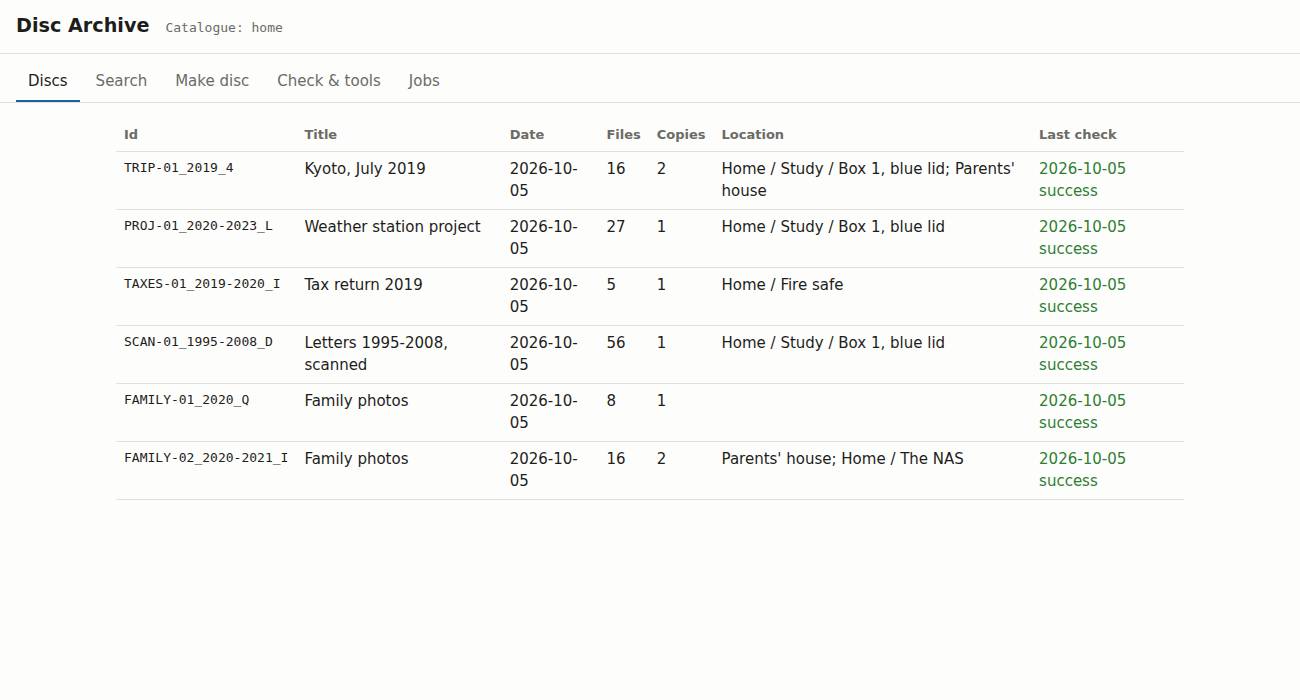
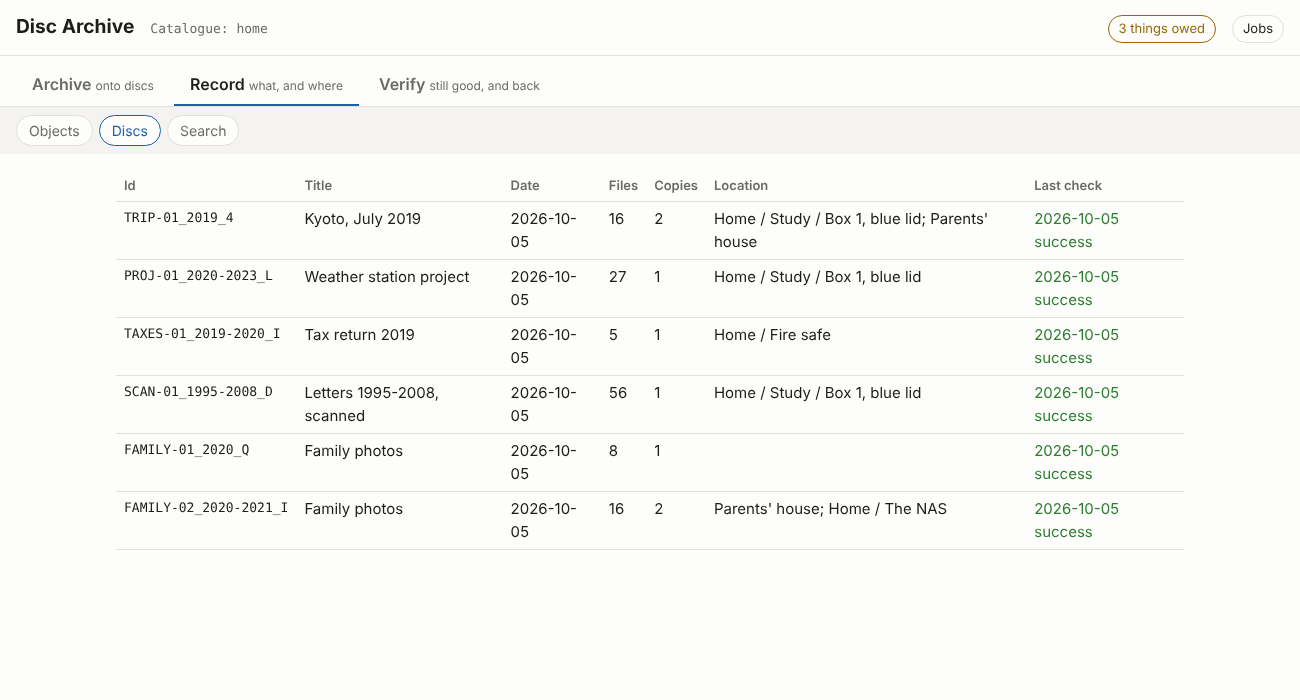
Docs follow Archive, Record, Verify; the GUI screenshot retaken
- workflow.md is now in three parts: Archive (1 collections, 2 status, 3 editions and
  disc plans), Record (4 copies, 5 the shelf, 6 finding things and the whole picture:
  arv objects, retiring) and Verify (7 what is owed and checking, 8 recover). The old
  "living with the archive" section is split between Record and Verify, and the
  diagram's groups carry the same names. shelving.md's link to Recover is fixed (it
  pointed at a section number that had moved).
- philosophy.md: "Archive, Record, Verify: the name is the work", tying each to the
  principles: curation and discs that stand alone; a record that describes and travels;
  verifying, without which it is a hope, not an archive.
- README: what arv does, in the three words; the commands example grouped under them
  (with arv todo, verify, restore and objects added); the GUI paragraph names the three
  tabs. docs/index.html says the same in a paragraph.
- docs/screenshots/gui.png retaken with dev-tools/screenshots.sh: Record > Discs under
  the three tabs. The GUI opens the view named in its address (#discs, #master, ...),
  which the script uses; the script now skips disc.png when the sample images are not
  downloaded, instead of stopping.

Claude-Session: https://claude.ai/code/session_01KgGJjcZuCsCesaZgm3Ve5T

diff --git a/docs/index.html b/docs/index.html
@@ -71,6 +71,11 @@ holds what is worth keeping, chosen, and must outlive the software and the perso
 It is kept <strong>cold</strong> where possible: on offline, write-once media on a shelf, where no
 mistake, failure or ransomware on a connected computer can reach it. Keep your backups; arv is for
 the archive on top of them.</p>
+<p><strong>Its name is what it does.</strong> <em>Archive</em>: choose what goes on discs, from a
+folder you keep sorting or composed by hand from anywhere. <em>Record</em>: what exists and where:
+every copy, its place and temperature, and what is on which disc. <em>Verify</em>: that every copy
+still reads, what is owed, and getting things back. The commands and the interface are grouped the
+same way.</p>
 <ul>
   <li><strong>It keeps the archive's record, not just discs.</strong> A folder you keep sorting
   becomes a collection with a history, like git's for any files; each set of discs from it is an
@@ -111,7 +116,7 @@ them, or take one from the <a href="https://github.com/mofosyne/arv/releases/tag
 release</a>): open one with your file manager or 7-Zip and read its <code>README.txt</code>.</p>
 
 <figure>
-  <a href="screenshots/gui.png"><img src="screenshots/gui.png" alt="arv gui listing the six sample discs, with where each is kept and when it was last checked"></a>
+  <a href="screenshots/gui.png"><img src="screenshots/gui.png" alt="arv gui, Record › Discs: the six sample discs, with where each is kept and when it was last checked, under the Archive, Record and Verify tabs"></a>
   <figcaption><code>arv gui</code> on the sample catalogue.</figcaption>
 </figure>
 <figure>

diff --git a/src/arv-gui/arvgui/gui.html b/src/arv-gui/arvgui/gui.html
@@ -919,7 +919,10 @@ pre.log { background:var(--panel); padding:10px 12px; border-radius:6px; max-hei
   }
 
   api("/api/llm/status").then(function (st) { llmStatus = st; }).catch(function () { llmStatus = null; })
-    .then(function () { setupMakeLLM(); loadDiscs(); showTab("owed"); });
+    .then(function () {           // a view named in the address (#discs, #master...), else Verify's Owed
+      var want = location.hash.slice(1);
+      setupMakeLLM(); loadDiscs(); loadOwed(); showTab(GROUP[want] ? want : "owed");
+    });
 })();
 </script>
 </body></html>

diff --git a/docs/workflow.md b/docs/workflow.md
@@ -10,6 +10,10 @@ keep, in *editions* — sets of discs, each holding a selection of the collectio
 the catalogue — kept **cold** (offline, on a shelf) wherever possible, and recorded well enough
 to outlive the software and the person who made it ([philosophy.md](philosophy.md)).
 
+The steps fall in three parts, as the name says: **Archive** (what goes on discs: 1-3),
+**Record** (what exists, and where: 4-6) and **Verify** (still good, and can be got back: 7-8).
+`arv --help` and the GUI's three tabs are arranged the same way.
+
 Details live elsewhere and are linked: the model behind the commands in
 [concepts.md](concepts.md), the command reference in [README.md](../README.md), the on-disc format
 in [smart-archive-format.md](spec/smart-archive-format.md), burning in [burning.md](burning.md),
@@ -20,23 +24,23 @@ shelving in [shelving.md](shelving.md), and the reasons for each choice in
 
 ```mermaid
 flowchart TD
-    subgraph keep [What you keep]
+    subgraph keep [Archive: what you keep]
         W[a workflow folder<br/>arv collection init] --> S[sort, add, rename<br/>arv status, arv checkpoint]
     end
-    subgraph make [An edition]
+    subgraph make [Archive: an edition]
         S --> M[arv make<br/>disc images: a selection of the<br/>collection + the catalogue, bag, tools, RS03]
     end
-    subgraph copies [Its copies]
+    subgraph copies [Record: its copies]
         M --> B[burn it yourself, then<br/>arv burned --device: read back, recorded; cold]
         M --> N[copy it to the NAS, then<br/>arv stored: checked, recorded; warm]
     end
-    subgraph live [Living with it]
+    subgraph live [Verify: living with it]
         B --> T[arv todo<br/>copies owed, checks due, editions to retire]
         N --> T
         T --> R[arv retire<br/>older editions a safe one replaces]
         T --> C[arv check --device<br/>every few years]
     end
-    subgraph recover [Recover]
+    subgraph recover [Verify: recover]
         C -- damage --> D[ddrescue, then<br/>arv check --image --repair]
         B -- home catalogue lost --> RB[arv rebuild /media/disc]
         B -- tools lost --> P[plain tools:<br/>sha256sum, a browser, a text editor]
@@ -108,7 +112,13 @@ arv location add PARENTS "Parents' house" --temperature cold
 arv location add NAS "The NAS" --temperature warm
 ```
 
-## 1. A collection and its workflow folder
+## Archive: what goes on discs
+
+Choosing what to keep, shaping it, and making disc images of it: a collection's editions from its
+workflow folder (1-3), or discs composed by hand from anywhere (disc plans, in 3). Nothing here
+counts as archived yet: that takes copies, recorded (Record), and read back (Verify).
+
+### 1. A collection and its workflow folder
 
 A **collection** is something you keep over time: the family photos, a project, the tax
 records. Its **workflow folder** is where you sort it. arv writes one small `.arv` marker
@@ -129,7 +139,7 @@ Optional: `arv tag FOLDER --save d.json` suggests folder tags from your vocabula
 describe FOLDER --save d.json` asks a local language model for a title, description and
 questions; `arv make --draft d.json` takes either.
 
-## 2. Sort, and see what changed
+### 2. Sort, and see what changed
 
 Work in the folder as you like. arv tells you what changed since the last edition, and keeps a
 history if you want one between editions:
@@ -160,7 +170,7 @@ repository is its working files plus a compacted `.git` (one pack; no hooks, no 
 stash's, no credentials in remote URLs), so the restored folder is a working repository; `arv
 make --git-since DATE` keeps only the history since then (shallow, as git itself does it).
 
-## 3. Make an edition
+### 3. Make an edition
 
 ```sh
 arv make ~/family [--message "the 2025 sort"] [--keep] [--medium bd25|bd100] [--split]
@@ -182,7 +192,7 @@ arv always made. The choices that matter then:
 | `--snapshot` | `full`: every disc carries the whole catalogue | `set` for a disc given to someone else |
 | `--split` | off: stop if it does not fit | the folder needs several discs |
 
-### Discs composed by hand: disc plans
+#### Discs composed by hand: disc plans
 
 When what goes on a disc is not one folder (a large film on one disc, the year's photos from the
 NAS and some scans on another), compose the discs by hand, as Nero's compilation window did. A
@@ -238,7 +248,7 @@ A plan's discs are one-off discs of its set, not an edition of a collection. The
 `drafts/plans/NAME.rec` in the home (a Plan record, then an Item record per thing: `Disc`,
 `Source`, `Path`); it never goes on a disc. Not yet: `--formats` (Siegfried) for a plan.
 
-### What `arv make` does, step by step
+#### What `arv make` does, step by step
 
 1. **Scan and hash** every file (SHA-256 and SHA-512); stop on names the image cannot hold.
 2. **Classify**: one `Set` and any `Category` codes from `sets.rec`, every vocabulary path
@@ -258,7 +268,13 @@ A plan's discs are one-off discs of its set, not an edition of a collection. The
 
 Output: one `.iso` per disc, and the commands to burn and record it.
 
-## 4. Copies: burned, and stored
+## Record: what exists, and where
+
+What arv writes down: every copy and where it is kept, notes and changes after burning, what is
+on which disc, and what each thing is. The catalogue is the map of the archive; every new disc
+carries a copy of it.
+
+### 4. Copies: burned, and stored
 
 arv never burns and never copies files to a NAS: those are jobs for tools built for them. It
 checks each copy against the image and records it, with its place and temperature.
@@ -282,7 +298,7 @@ Write the disc id on the hub and the case; its last character is a check charact
 mistyped id is caught (`arv id FAMILY-04_2001-2025_Y`). [burning.md](burning.md) has the burning
 commands, the pitfalls and the drill to run before trusting a new drive or media.
 
-## 5. Store
+### 5. Store
 
 How to arrange the discs so the shelf matches the catalogue: **[shelving.md](shelving.md)**.
 In short: physically by access level, a box per year made, in the order made (sealed discs in
@@ -296,19 +312,22 @@ arv location move HOME-2026 --in PARENTS             # moving a box moves its di
 arv location list -v                                 # places, their temperature and their discs
 ```
 
-## 6. Living with the archive
+### 6. Finding things, and the whole picture
 
-**`arv todo`** lists what is owed, and is the one command to run now and then:
+| Question | Answer |
+|---|---|
+| Which disc has this file, and where is it? | `arv find IMG_2019` (a glob works: `'*.kicad_pcb'`) |
+| What do I have from July 2019? | `arv list --covers 2019-07` |
+| Everything under a category or a place | `arv list --in MEMORIES`, `arv list --at PARENTS` |
+| What has this collection been through? | `arv collection show FAMILY`, `arv log FAMILY` |
+| Which tags do I use? | `arv tags`; `arv find place:kyoto` |
+| Group things across discs | `arv selection add BEST --name "Best of" DISC:folder/ DISC:file`: virtual folders, shown as a tree by other software too |
+| Without this tool installed? | every disc carries it: `tools/arv.com find PATTERN` from the disc's root searches every disc it knows about; or `grep -ri PATTERN catalog/volumes/*/listing.tsv` |
+| Changes after burning | `arv note`, `arv locate`, `arv access` (home catalogue; later discs carry them) |
+| How important is it, and to whom? | `arv appraise` (the archivist's log; `make --importance` at the start) |
 
-- discs with no copy yet;
-- copies never read back;
-- editions not yet safe;
-- editions a newer safe edition replaces, ready to retire;
-- discs with no cold copy;
-- discs kept in fewer than two places;
-- checks overdue (5 years by default; `--overdue YEARS`);
-- data objects whose newest version has no cold copy, or that are no longer where they came
-  from with fewer than two copies left.
+Every new disc carries the whole archive's catalogue as of its making, so **the newest disc is
+always a copy of the catalogue**.
 
 **`arv objects [NAME]`** is the whole picture, per thing kept rather than per disc (the GUI's
 **Objects** tab shows the same, from `arv objects --json`, with each copy as a cold, warm or hot
@@ -337,25 +356,29 @@ recorded as **lost** on that edition (a `Lost:` line each, carried on every late
 `arv log FAMILY` counts them and `arv find` lists them as `LOST`. A retired disc's own files still
 show in `arv find`, marked `[retired DATE]` where a disc's place would be.
 
+## Verify: still good, and can be got back
+
+Whether every copy still reads, what is owed (`arv todo`), and getting things back when something
+is lost or damaged.
+
+### 7. What is owed, and checking
+
+**`arv todo`** lists what is owed, and is the one command to run now and then:
+
+- discs with no copy yet;
+- copies never read back;
+- editions not yet safe;
+- editions a newer safe edition replaces, ready to retire;
+- discs with no cold copy;
+- discs kept in fewer than two places;
+- checks overdue (5 years by default; `--overdue YEARS`);
+- data objects whose newest version has no cold copy, or that are no longer where they came
+  from with fewer than two copies left.
+
 **Checking** every few years: `arv check --device /dev/sr0` reads a disc back against its
 image's hash and logs it. A disc that needed repair is a warning: make a new copy.
 
-| Question | Answer |
-|---|---|
-| Which disc has this file, and where is it? | `arv find IMG_2019` (a glob works: `'*.kicad_pcb'`) |
-| What do I have from July 2019? | `arv list --covers 2019-07` |
-| Everything under a category or a place | `arv list --in MEMORIES`, `arv list --at PARENTS` |
-| What has this collection been through? | `arv collection show FAMILY`, `arv log FAMILY` |
-| Which tags do I use? | `arv tags`; `arv find place:kyoto` |
-| Group things across discs | `arv selection add BEST --name "Best of" DISC:folder/ DISC:file`: virtual folders, shown as a tree by other software too |
-| Without this tool installed? | every disc carries it: `tools/arv.com find PATTERN` from the disc's root searches every disc it knows about; or `grep -ri PATTERN catalog/volumes/*/listing.tsv` |
-| Changes after burning | `arv note`, `arv locate`, `arv access` (home catalogue; later discs carry them) |
-| How important is it, and to whom? | `arv appraise` (the archivist's log; `make --importance` at the start) |
-
-Every new disc carries the whole archive's catalogue as of its making, so **the newest disc is
-always a copy of the catalogue**.
-
-## 7. Recover
+### 8. Recover
 
 | What happened | What to do |
 |---|---|
@@ -368,7 +391,7 @@ always a copy of the catalogue**.
 The rule behind all of this: **the discs describe themselves**. Nothing on a disc needs this
 tool, the home catalogue or the network to be found, verified, read or repaired.
 
-## 8. How the repository fits together
+## 9. How the repository fits together
 
 ```
 src/arv/                  arv: the C program (C99 and POSIX, no libraries)
@@ -400,7 +423,7 @@ The layers, from most to least durable:
 3. **The optional helpers:** arv-assist (local AI helpers) and arv-gui (the web interface).
    Nothing on a disc needs them.
 
-## 9. Developer flows
+## 10. Developer flows
 
 - **Tests:** `make check` runs bagit (against bagit.py when python3 is there), RS03 (the test
   vectors, and dvdisaster Light when on PATH), arv (`make -C src/arv check`: the reference

diff --git a/README.md b/README.md
@@ -24,20 +24,25 @@
 
 Keep your backups (the NAS, restic, Borg, the cloud): arv sits on top of them, for the photos,
 video, documents and source code that should outlive them, and puts them in cold storage
-(write-once discs today) whenever it can. It is a personal archivist's tool,
-and keeps the whole archive's record:
+(write-once discs today) whenever it can. It is a personal archivist's tool, and its name is
+what it does:
 
-- **What you keep, over time.** A folder you sort and grow becomes a *collection* with its own
-  history, like git's but for any files: each state is a revision, and each set of discs made
-  from it is an edition. Each disc holds a selection of the collection and a copy of the
-  catalogue, so the discs together hold what you archived, and any one of them can tell you
-  about the whole archive.
-- **What is archived, and where.** Point it at any folder and it says which files are already
-  on which discs and which are on none, and what changed since the last edition.
-- **Where every copy is, and whether it still reads.** Locations down to the box, copies per
-  place, when each disc was last checked, what is overdue, what is kept in one place only.
-- **Why it matters.** Appraisals (how important, to whom, why) and a log of every change,
-  people's and machines' told apart.
+- **Archive: what goes on discs.** A folder you sort and grow becomes a *collection* with its
+  own history, like git's but for any files: each state is a revision, and each set of discs made
+  from it is an edition. Or compose discs by hand from files and folders anywhere, as Nero's
+  compilation window did (`arv plan`). Each disc holds a selection and a copy of the catalogue,
+  so any one of them can tell you about the whole archive.
+- **Record: what exists, and where.** Which files are on which discs and which are on none; each
+  thing you archived as a *data object*, in versions, recognised by its content; every copy, its
+  place down to the box, and its temperature (hot, warm, cold); appraisals (how important, to
+  whom, why) and a log of every change, people's and machines' told apart (`arv objects`,
+  `arv find`, `arv status`).
+- **Verify: still good, and can be got back.** A copy is recorded only once it reads back
+  identical; checks come round every few years; `arv todo` says what is owed: copies, read-backs,
+  cold copies, places, checks. Every disc carries error correction, the tools to repair it, and
+  the catalogue to rebuild the record from (`arv check`, `arv verify`, `arv restore`, `arv rebuild`).
+
+`arv --help`, the GUI's three tabs and [docs/workflow.md](docs/workflow.md) are arranged the same way.
 
 What it writes are self-describing archive discs: your files untouched, a hash of every file,
 a catalogue of the whole archive so far, the source of the tools that made it, and the steps to
@@ -255,6 +260,7 @@ letter.
 ### Commands
 
 ```sh
+# Archive: what goes on discs (the places first, so discs can name them)
 arv location add HOME Home
 arv location add BOX3 "Box 3, blue lid" --in HOME
 arv make ./2025-01-13_Projects_2020_-_2025 --location BOX3
@@ -273,10 +279,13 @@ arv make ./my-git-clone --links record   # links: file links copied, the rest no
 #   (default: links leaving the folder are refused; copy: copy what every link points to)
 arv make ./Video --medium bd100 --min-redundancy 25     # M-DISC 100GB, at least 25% RS03
 arv make ./Kyoto --importance "essential for self" --importance "important for family" --basis "first trip together"
+
+# Record: what exists, and where
 arv appraise TRIP-01_2019_4:day1/ --importance "essential for family" --review 5y   # the archivist log
 arv appraise TRIP-01_2019_4:day1/IMG_0001.JPG   # the appraisal in force (inherited from day1/)
 arv appraise --due                              # appraisals due for review
 arv find IMG_2019            # which disc holds it, and where the disc is
+arv objects                     # everything kept, and every copy of it: discs, places, hot/warm/cold
 arv list --covers 2019-07-15    # discs whose date range includes that day (or 2019, 2019-07)
 arv sets -v                     # the vocabulary tree with disc counts, aliases and match rules
 arv list --in MEMORIES          # discs anywhere under a vocabulary entry
@@ -290,23 +299,31 @@ arv selection add KYOTO-BEST --name "Best of Kyoto" TRIP-01_2019_4:"day2 Kinkaku
 arv selection show KYOTO-BEST                   # virtual folders across discs, with where each disc is
 arv list --at HOME                              # discs anywhere inside a place
 arv list --access private --made 2026          # what belongs in this year's private box
-arv list --unchecked-since 5y                  # discs due a check (last checked, or never)
-arv list --one-place                           # discs kept in only one place
 arv access 2020-2025_PROJECTS_01 public          # public / private (default) / sealed
 arv tags                                         # every folder tag in use, by namespace
 arv keywords PROJ-01_2020-2025_K --format exiftool > kw.args  # tags as XMP keywords
+
+# Verify: still good, and can be got back
+arv todo                                           # what is owed: copies, read-backs, cold copies, places, checks
+arv list --unchecked-since 5y                  # discs due a check (last checked, or never)
+arv list --one-place                           # discs kept in only one place
 arv check --device /dev/sr0                        # read a disc back against its image hash, logged
 arv check --image 2020-2025_PROJECTS_01.iso
 arv rebuild /media/disc                            # recreate/merge the home catalogue from a disc
+arv verify /media/disc                             # every file against its checksum
+arv restore /media/disc ~/restored                 # copy everything back, links and execute bits too
+
 arv gui                                            # the same, in your web browser
 ```
 
-`arv gui` opens a local page (127.0.0.1 only, per-session token) with tabs for
-the disc list and history, notes, location and burned copies, search, making a
-disc (with a folder picker), checking discs and rebuilding the catalogue. Every
-action runs the same `arv` command as the terminal and shows its output.
+`arv gui` opens a local page (127.0.0.1 only, per-session token) with three tabs, as the commands
+are grouped: **Archive** (Mastering: discs composed by hand, with drag and drop and a fill bar a
+disc; making a disc from a folder), **Record** (Objects: everything kept and where every copy is;
+the discs, with notes, places and copies; search) and **Verify** (what is owed, counted in the
+header; checking a disc or image; verifying, restoring and rebuilding from a disc). Every action
+runs the same `arv` command as the terminal and shows its output.
 
-![arv gui: the sample discs, with where each is kept and when it was last checked](docs/screenshots/gui.png)
+![arv gui, Record › Discs: the sample discs, with where each is kept and when it was last checked, under the Archive, Record and Verify tabs](docs/screenshots/gui.png)
 
 On the disc, `index.html` browses the disc without JavaScript:
 

diff --git a/docs/philosophy.md b/docs/philosophy.md
@@ -39,6 +39,27 @@ Everything else follows from six principles:
 
 The sections below say what each principle means in practice.
 
+## Archive, Record, Verify: the name is the work
+
+The three words are the three things an archivist does, in order, and the tool, its interface and
+these documents are arranged by them:
+
+- **Archive: choose what goes on discs, and make them.** Curation is the first act (principle 1):
+  a collection's editions, or discs composed by hand from wherever the things are. Every disc is
+  made to stand alone (principle 2), and planned is not archived: a thing counts only once it is
+  on a disc that has been read back.
+- **Record: write down what exists, and where.** Every copy, its place and its temperature; which
+  file and which object is on which disc; what each thing is and why it matters. The record
+  describes the files and never takes them over (principle 6), and it travels: every disc carries
+  the catalogue, so the record survives the home that kept it.
+- **Verify: keep checking that it is still good, and that it can be got back.** A copy is recorded
+  only once it reads back identical; checks come round every few years; `arv todo` says what is
+  owed; and repair, restore and rebuild need nothing but a disc (principle 3). An archive that is
+  never verified is a hope, not an archive.
+
+Archiving without recording loses things on the shelf; recording without verifying keeps a
+confident list of discs that no longer read. All three, or it is not yet an archive.
+
 ## Not everything goes on Blu-ray (principle 1)
 
 A Blu-ray holds 25 GB. A household's data does not fit, and most of it does not

diff --git a/docs/shelving.md b/docs/shelving.md
@@ -121,7 +121,7 @@ arv location add PARENTS-PRV-2026 "Private copies, made 2026" --in PARENTS
 ## Copies: same image, different places
 
 Burn every copy from the **same `.iso`**, so the copies are sector-identical and
-can repair each other (see [workflow.md](workflow.md#6-recover)). Keep at least
+can repair each other (see [workflow.md](workflow.md#8-recover)). Keep at least
 two copies, in two places: the usual 3-2-1 idea, with an off-site copy.
 
 ```sh
